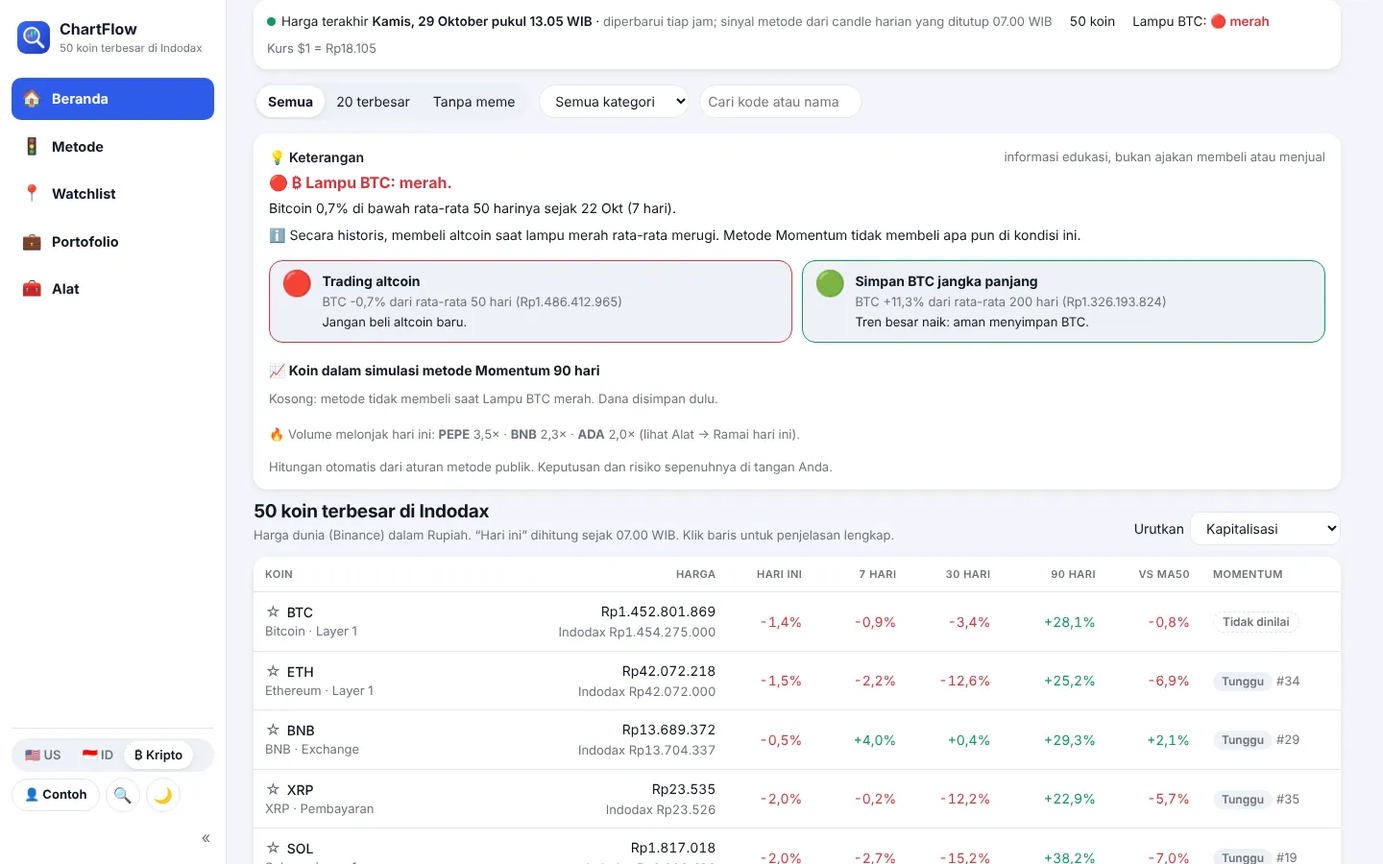
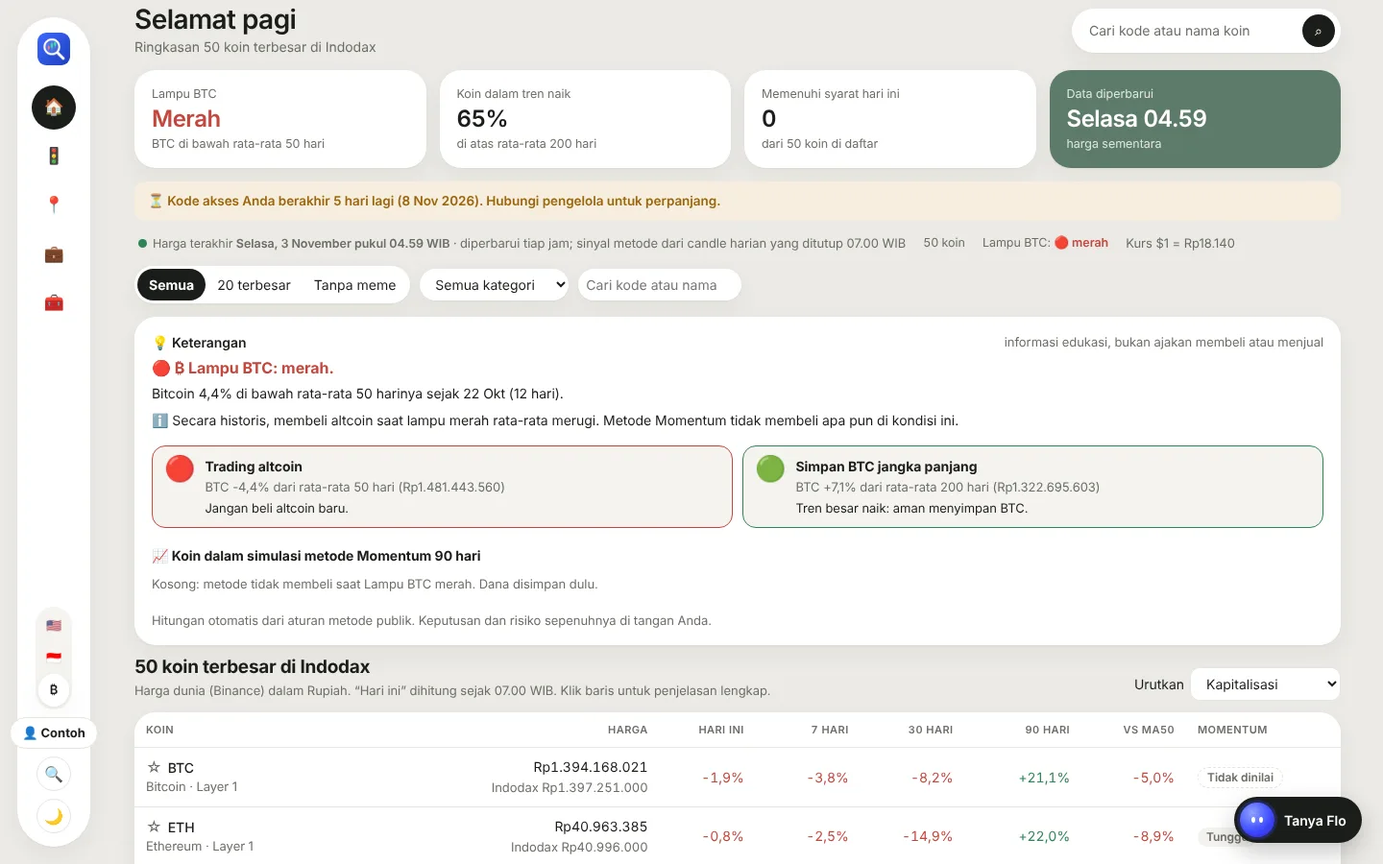
Tampilan baru: ringkasan Beranda, animasi pindah menu, dan Flo
Gaya kalem (abu-krem, kartu membulat, aksen sage), menu samping ikon saja,
empat kartu angka di Beranda, animasi masuk/pindah menu, dan Flo, asisten
yang menjawab dari aturan dan data ChartFlow (tanpa AI berbayar).

Claude-Session: https://claude.ai/code/session_012CAGJkYUHsEMWwfJLfAKuZ

diff --git a/index.html b/index.html
@@ -16,7 +16,7 @@
 <script>try{const q=new URLSearchParams(location.search);if(q.has("app")&&localStorage.getItem("lastMarket")==="id"&&!/indonesia/.test(location.pathname)){location.replace("/screener-saham-indonesia/"+location.hash);}localStorage.setItem("lastMarket","id");}catch(e){}</script>
 <link rel="preconnect" href="https://fonts.googleapis.com">
 <link rel="preconnect" href="https://fonts.gstatic.com" crossorigin>
-<link rel="stylesheet" href="https://fonts.googleapis.com/css2?family=Plus+Jakarta+Sans:wght@400;500;600;700;800&display=swap">
+<link rel="stylesheet" href="https://fonts.googleapis.com/css2?family=Instrument+Sans:wght@400;500;600;700&display=swap">
 <script>try{const t=localStorage.getItem("theme");if(t)document.documentElement.dataset.theme=t;}catch(e){}</script>
 <style>
 /* Layout: trading-desk worksheet. Status bar, tab strip with live pass counts, criteria rail + results table. */
@@ -351,6 +351,134 @@ footer{color:var(--muted);font-size:12.5px}
 
 @media (max-width:600px){.topbar{flex-wrap:wrap;row-gap:8px}.topbar .brand{margin-right:auto}.topbar .tb-r{display:contents}.topbar .mkt{order:9;width:100%;display:flex}.topbar .mkt a{flex:1;text-align:center;padding:6px 8px;font-size:13px}}
 .il-box.tl{border-color:#7c3aed}
+
+/* ---------- v3: tampilan kalem + animasi + Flo ---------- */
+:root{--bg:#ebeae5;--surface:#ffffff;--sunk:#f4f3ef;--line:#e6e5df;--fg:#1b1d1a;--muted:#6b6e66;
+  --accent:#4f6f5c;--accent-ink:#ffffff;--accent-soft:#e6eee8;--ink:#1b1d1a;--ink-fg:#ffffff;--sage:#5d7b69;
+  --good:#2f8455;--good-soft:#e3f1e8;--warn:#9a6510;--warn-soft:#f6eedd;--bad:#c4473f;--bad-soft:#f8e6e3;
+  --f-display:"Instrument Sans","Segoe UI",system-ui,sans-serif;--f-body:"Instrument Sans","Segoe UI",system-ui,sans-serif;--f-mono:"Instrument Sans","Segoe UI",system-ui,sans-serif;
+  --r:22px;--shadow:0 1px 2px rgba(30,30,20,.04),0 8px 24px rgba(30,30,20,.05);--lift:0 2px 4px rgba(30,30,20,.05),0 18px 36px rgba(30,30,20,.09)}
+@media (prefers-color-scheme: dark){:root:not([data-theme=light]){--bg:#141513;--surface:#1d1f1c;--sunk:#252723;--line:#2c2e2a;--fg:#ecede8;--muted:#9a9d95;
+  --accent:#8fb39d;--accent-ink:#141513;--accent-soft:#25302a;--ink:#ecede8;--ink-fg:#141513;--sage:#5a7a66;
+  --good:#7cc79a;--good-soft:#1d2e24;--warn:#e3b45c;--warn-soft:#33291a;--bad:#f08a80;--bad-soft:#3a201d;
+  --shadow:0 1px 2px rgba(0,0,0,.35),0 8px 24px rgba(0,0,0,.25);--lift:0 2px 4px rgba(0,0,0,.4),0 18px 36px rgba(0,0,0,.4)}}
+:root[data-theme=dark]{--bg:#141513;--surface:#1d1f1c;--sunk:#252723;--line:#2c2e2a;--fg:#ecede8;--muted:#9a9d95;
+  --accent:#8fb39d;--accent-ink:#141513;--accent-soft:#25302a;--ink:#ecede8;--ink-fg:#141513;--sage:#5a7a66;
+  --good:#7cc79a;--good-soft:#1d2e24;--warn:#e3b45c;--warn-soft:#33291a;--bad:#f08a80;--bad-soft:#3a201d;
+  --shadow:0 1px 2px rgba(0,0,0,.35),0 8px 24px rgba(0,0,0,.25);--lift:0 2px 4px rgba(0,0,0,.4),0 18px 36px rgba(0,0,0,.4)}
+body{letter-spacing:-.003em}
+.topbar{border-bottom:none;background:color-mix(in srgb,var(--bg) 90%,transparent)}
+.rail,.mcard,.tablebox,.etf,.calcwrap>.mcard{border-radius:var(--r)!important}
+.mcard{padding:16px 18px}
+.status{background:transparent!important;box-shadow:none!important;padding:0 4px!important;font-size:12.5px;color:var(--muted)}
+.tab{border:none!important;box-shadow:var(--shadow)}
+.tab[aria-selected=true]{background:var(--ink)!important;color:var(--ink-fg)!important}
+.tab[aria-selected=true] .c,.tab[aria-selected=true] .c b{color:var(--ink-fg)!important}
+.seg{background:var(--surface);box-shadow:var(--shadow)}
+.seg button[aria-pressed=true]{background:var(--ink)!important;color:var(--ink-fg)!important;box-shadow:none}
+.filters select,.filters input[type=search],#syr{border:none;background:var(--surface);box-shadow:var(--shadow)}
+#install{background:var(--ink);border-color:var(--ink);color:var(--ink-fg)}
+.mainnav button[aria-current=true]{background:var(--ink);color:var(--ink-fg)}
+.drawer{background:var(--bg)}
+@media (max-width:760px){
+  body{padding-bottom:calc(96px + env(safe-area-inset-bottom,0px))}
+  .mainnav{left:10px;right:10px;bottom:calc(10px + env(safe-area-inset-bottom,0px));border-radius:26px;padding:6px 4px;box-shadow:0 10px 30px rgba(30,30,20,.16)}
+  .mainnav button[aria-current=true]{background:var(--ink);color:var(--ink-fg)}
+}
+/* sapaan + kartu angka */
+.hero{display:flex;flex-direction:column;gap:14px}
+.hero:empty{display:none}
+.hello{display:flex;align-items:center;justify-content:space-between;gap:16px;flex-wrap:wrap;margin-top:4px}
+.hello h1{margin:0;font-size:28px;font-weight:600;letter-spacing:-.02em;line-height:1.15}
+.hello p{margin:2px 0 0;color:var(--muted);font-size:14px}
+.hello .srch{display:flex;align-items:center;gap:8px;background:var(--surface);box-shadow:var(--shadow);border:none;border-radius:999px;padding:6px 6px 6px 18px;min-width:280px;color:var(--muted);font:inherit;font-size:14px;cursor:pointer;text-align:left}
+.hello .srch span{flex:1}.hello .srch i{font-style:normal;width:34px;height:34px;border-radius:50%;background:var(--ink);color:var(--ink-fg);display:grid;place-items:center;font-size:14px}
+.kpi{display:grid;grid-template-columns:repeat(4,minmax(0,1fr));gap:14px}
+.kpi>div{background:var(--surface);border-radius:var(--r);box-shadow:var(--shadow);padding:16px 18px;min-width:0;display:flex;flex-direction:column;gap:2px}
+.kpi small{color:var(--muted);font-size:12.5px}
+.kpi b{font-size:24px;font-weight:600;letter-spacing:-.02em;line-height:1.2;font-variant-numeric:tabular-nums}
+.kpi .ok{color:var(--good)}.kpi .no{color:var(--bad)}
+.kpi .sg{background:var(--sage);color:#fff}.kpi .sg small{color:rgba(255,255,255,.8)}
+.kpi.wait>div{min-height:84px;background:linear-gradient(100deg,var(--surface) 30%,var(--sunk) 50%,var(--surface) 70%);background-size:300% 100%;animation:shim 1.4s linear infinite}
+@keyframes shim{from{background-position:100% 0}to{background-position:-50% 0}}
+@media (max-width:1099px){.hello .srch{display:none}}
+@media (max-width:760px){.kpi{grid-template-columns:1fr 1fr;gap:10px}.kpi>div{padding:13px 14px}.kpi b{font-size:20px}.hello h1{font-size:23px}.hero.sub{display:none}}
+/* kartu terangkat saat disorot */
+@media (hover:hover){.kpi>div,.mcard{transition:transform .28s cubic-bezier(.2,.8,.2,1),box-shadow .28s}
+  .kpi>div:hover,.results>.mcard:hover{transform:translateY(-3px);box-shadow:var(--lift)!important}}
+/* menu samping: ikon saja, melayang */
+@media (min-width:1100px){
+  body,body.sncol{padding-left:112px}
+  .sidenav,body.sncol .sidenav{width:76px;top:18px;bottom:18px;left:18px;border:none;border-radius:38px;box-shadow:var(--shadow);padding:16px 0 14px;align-items:center;overflow:visible;background:var(--surface)}
+  .sidenav #snDyn{align-items:center}
+  .sidenav .sn-top{justify-content:center;padding:0 0 8px}
+  .sidenav .sn-top>div,.sidenav .tx,.sidenav .sn-s,.sidenav .sn-col{display:none!important}
+  .sidenav .sn-nav{align-items:center;position:relative}
+  .sidenav .sn-g{width:46px;height:46px;justify-content:center;padding:0;border-radius:50%;margin:3px 0 0;background:transparent!important;position:relative;z-index:1;transition:color .3s}
+  .sidenav .sn-g:hover{background:var(--sunk)!important}
+  .sidenav .sn-g.ind-on[aria-current=true]:hover{background:transparent!important}
+  .sidenav .sn-g[aria-current=true]{color:var(--ink-fg)}
+  .sidenav .sn-g[aria-current=true]:not(.ind-on){background:var(--ink)!important}
+  .sidenav .sn-g .bd{position:absolute;top:0;right:0;margin:0}
+  .sidenav .sn-foot{border:none;padding:0}
+  .sidenav .sn-foot .tb-r{flex-direction:column;flex-wrap:nowrap;gap:8px}
+  .sidenav .sn-foot .mkt{flex-direction:column;width:auto;border-radius:24px}
+  .sidenav .mkt a{padding:7px 8px;text-align:center}.sidenav .mkt .mt{display:none}
+  .sidenav #install{width:46px;height:46px;padding:0;font-size:0;border-radius:50%}.sidenav #install::before{content:"📲";font-size:18px}
+  body .tabs#tabs:not(:empty){display:flex!important}
+  .sn-ind{position:absolute;left:50%;top:0;width:46px;height:46px;margin-left:-23px;border-radius:50%;background:var(--ink);z-index:0;pointer-events:none;transition:transform .5s cubic-bezier(.3,1.25,.5,1)}
+  .sn-tip{position:fixed;padding:5px 11px;border-radius:9px;background:var(--ink);color:var(--ink-fg);font-size:12.5px;font-weight:600;white-space:nowrap;pointer-events:none;opacity:0;transition:opacity .25s,top .4s cubic-bezier(.3,1.25,.5,1);z-index:60}
+}
+/* Flo: asisten */
+.flo{position:fixed;z-index:38;left:0;top:0;display:flex;align-items:center;gap:10px;height:48px;padding:0 16px 0 6px;border:none;border-radius:999px;background:var(--ink);color:var(--ink-fg);font:inherit;font-weight:600;font-size:14px;cursor:pointer;box-shadow:0 10px 26px rgba(0,0,0,.22);
+  transition:transform .7s cubic-bezier(.2,.8,.2,1),opacity .3s,padding .4s,background .4s,box-shadow .4s;opacity:0;pointer-events:none}
+.flo.dock{opacity:1;pointer-events:auto}
+.flo .orb{flex:none;width:36px;height:36px;border-radius:50%;display:grid;place-items:center;background:radial-gradient(circle at 35% 30%,#8fa2ff,#3f4dff 55%,#2a1fd0);box-shadow:0 0 0 3px rgba(63,77,255,.25);transition:width .45s,height .45s,box-shadow .4s}
+.flo .eyes{display:flex;gap:22%;width:46%;justify-content:center}
+.flo .eyes i,.fp-big .eyes i{display:block;width:20%;aspect-ratio:2/3;min-width:4px;background:#fff;border-radius:50%;animation:blink 3.4s infinite}
+.flo .lbl{white-space:nowrap;transition:opacity .25s}
+.flo .say{position:absolute;bottom:calc(100% + 12px);left:50%;transform:translate(-50%,6px);background:var(--surface);color:var(--fg);box-shadow:var(--shadow);padding:7px 13px;border-radius:14px;font-size:13px;white-space:nowrap;opacity:0;transition:opacity .3s,transform .3s;pointer-events:none}
+.flo.center{opacity:1;padding:0;background:transparent;box-shadow:none;pointer-events:none}
+.flo.center .orb{width:72px;height:72px;box-shadow:0 12px 34px rgba(63,77,255,.5),0 0 0 7px rgba(63,77,255,.12);animation:bob 2.4s ease-in-out infinite}
+.flo.center .lbl{opacity:0;width:0;overflow:hidden}
+.flo.center .say{opacity:1;transform:translate(-50%,0)}
+.flo:focus-visible{outline:2px solid var(--accent);outline-offset:3px}
+body:has(.drawer) .flo,body.fpo .flo{opacity:0!important;pointer-events:none!important}
+@media (max-width:760px){.flo.dock{padding:0 6px;width:auto}.flo.dock .lbl{display:none}}
+@keyframes bob{50%{transform:translateY(-8px)}}
+@keyframes blink{0%,93%,100%{transform:scaleY(1)}96%{transform:scaleY(.1)}}
+.flopanel{position:fixed;z-index:42;top:18px;right:18px;bottom:18px;width:380px;border-radius:28px;background:var(--surface);box-shadow:0 20px 60px rgba(20,20,10,.2);display:flex;flex-direction:column;
+  transform:translateX(calc(100% + 30px));visibility:hidden;transition:transform .55s cubic-bezier(.2,.8,.2,1),visibility 0s .55s}
+body.fpo .flopanel{transform:none;visibility:visible;transition:transform .55s cubic-bezier(.2,.8,.2,1)}
+body{transition:padding-right .55s cubic-bezier(.2,.8,.2,1)}
+@media (min-width:1300px){body.fpo{padding-right:400px}}
+.fp-hd{display:flex;align-items:center;gap:10px;padding:18px 18px 10px;font-weight:600}
+.fp-hd small{display:block;color:var(--muted);font-weight:400;font-size:12px}
+.fp-hd .mini{width:32px;height:32px;border-radius:50%;background:radial-gradient(circle at 35% 30%,#8fa2ff,#3f4dff 55%,#2a1fd0);flex:none}
+.fp-x{margin-left:auto;border:none;background:var(--sunk);width:34px;height:34px;border-radius:50%;cursor:pointer;color:var(--fg);font-size:14px}
+.fp-body{flex:1;overflow:auto;padding:6px 18px 10px;display:flex;flex-direction:column;gap:10px}
+.fp-hi{margin:auto 0;text-align:center;padding:10px 0}
+.fp-big{width:76px;height:76px;margin:0 auto 14px;border-radius:50%;display:grid;place-items:center;background:radial-gradient(circle at 35% 30%,#8fa2ff,#3f4dff 55%,#2a1fd0);box-shadow:0 12px 30px rgba(63,77,255,.45);animation:bob 2.4s ease-in-out infinite}
+.fp-big .eyes{display:flex;gap:10px;width:auto}.fp-big .eyes i{width:9px;min-width:0}
+.fp-hi h3{margin:0;font-size:22px;letter-spacing:-.02em;text-transform:none;color:var(--fg)}
+.fp-hi p{color:var(--muted);font-size:13.5px;margin:6px auto 0;max-width:30ch}
+.fp-m{max-width:92%;padding:10px 13px;border-radius:18px;font-size:13.5px;line-height:1.5;animation:pop .35s cubic-bezier(.2,.8,.2,1)}
+.fp-m.me{align-self:flex-end;background:var(--ink);color:var(--ink-fg);border-bottom-right-radius:6px}
+.fp-m.bot{align-self:flex-start;background:var(--sunk);border-bottom-left-radius:6px}
+.fp-m.bot ul{margin:6px 0 0;padding-left:18px}.fp-m.bot li{margin:2px 0}
+.fp-m.bot .tk{border:none;background:none;padding:0;font:inherit;font-weight:700;color:var(--accent);cursor:pointer;text-decoration:underline;text-underline-offset:3px}
+.fp-m.bot .go{margin-top:8px;border:none;border-radius:999px;background:var(--ink);color:var(--ink-fg);padding:6px 12px;font:inherit;font-size:12.5px;font-weight:600;cursor:pointer}
+@keyframes pop{from{opacity:0;transform:translateY(8px) scale(.98)}}
+.fp-chips{display:flex;gap:8px;overflow-x:auto;padding:4px 18px 8px;scrollbar-width:none}
+.fp-chips::-webkit-scrollbar{display:none}
+.fp-chips button{flex:none;border:none;background:var(--sunk);border-radius:999px;padding:8px 13px;font:inherit;font-size:13px;color:var(--fg);cursor:pointer}
+.fp-chips button:hover{background:var(--accent-soft)}
+.fp-in{display:flex;align-items:center;gap:8px;margin:4px 14px 8px;background:var(--sunk);border-radius:999px;padding:5px 5px 5px 16px}
+.fp-in input{flex:1;min-width:0;border:none;background:none;font:inherit;font-size:14px;color:var(--fg);padding:6px 0;outline:none}
+.fp-in button{width:36px;height:36px;border:none;border-radius:50%;background:var(--ink);color:var(--ink-fg);cursor:pointer;font-size:15px;flex:none}
+.fp-note{margin:0 18px 14px;font-size:11.5px;color:var(--muted);text-align:center}
+@media (max-width:760px){.flopanel{left:8px;right:8px;top:auto;bottom:8px;width:auto;height:min(78vh,640px);transform:translateY(calc(100% + 20px))}}
+@media (prefers-reduced-motion:reduce){.flo,.flopanel,.sn-ind,.sn-tip,.kpi>div,.mcard,body{transition:none!important}.flo .orb,.fp-big,.flo .eyes i,.fp-big .eyes i,.kpi.wait>div,.fp-m{animation:none!important}}
 </style>
 </head>
 <body>
@@ -2377,6 +2505,158 @@ function autoCheck(force){
 setInterval(()=>autoCheck(false),30000);
 document.addEventListener("visibilitychange",()=>{ if(document.visibilityState==="visible") autoCheck(Date.now()-AUTO.last>60000); });
 window.addEventListener("online",()=>autoCheck(true));
+// ---------- Tampilan v3: sapaan, kartu angka, animasi, Flo ----------
+(function(){
+  const RM=matchMedia("(prefers-reduced-motion:reduce)").matches, DESK=()=>matchMedia("(min-width:1100px)").matches, PHONE=()=>matchMedia("(max-width:760px)").matches;
+  const EASE="cubic-bezier(.2,.8,.2,1)";
+  const CR=typeof IS_CR!=="undefined"&&IS_CR, MK=CR?"kripto":IS_ID?"id":"us";
+  const UNIT=CR?"koin":"saham", IDX=CR?"BTC":IS_ID?"IHSG":"S&P 500", EX=CR?"BTC":IS_ID?"BBCA":"AAPL";
+  const BUY=()=>(typeof ST!=="undefined"&&ST.buy)||"Layak beli";
+  const SAFEm=typeof SAFE!=="undefined"&&SAFE;
+  const anim=(el,kf,o)=>{ if(!RM&&el&&el.animate) return el.animate(kf,Object.assign({easing:EASE,fill:"backwards"},o)); };
+  const fadeIn=(el,delay)=>anim(el,[{opacity:0,filter:"blur(10px)",transform:"translateY(14px)"},{opacity:1,filter:"blur(0)",transform:"none"}],{duration:650,delay});
+  const fill=(card,delay)=>{ anim(card,[{opacity:0,transform:"translateY(10px) scale(.985)"},{opacity:1,transform:"none"}],{duration:600,delay});
+    [...card.children].slice(0,12).forEach((c,i)=>anim(c,[{opacity:0,filter:"blur(6px)"},{opacity:1,filter:"blur(0)"}],{duration:550,delay:delay+320+i*45})); };
+  const visCards=()=>[...document.querySelectorAll("#results>*,#rail")].filter(e=>e.offsetParent&&e.getBoundingClientRect().top<innerHeight+40).slice(0,8);
+  const countUp=(el,delay)=>{ if(RM||!el) return; const n=el.firstChild; if(!n||n.nodeType!==3) return; const m=/^(\d+)(.*)$/.exec(n.textContent); if(!m) return;
+    const to=+m[1], rest=m[2], t0=performance.now()+delay; n.textContent="0"+rest;
+    const step=t=>{ const k=Math.min(1,Math.max(0,(t-t0)/1000)), e=1-Math.pow(1-k,3); n.textContent=Math.round(to*e)+rest; if(k<1) requestAnimationFrame(step); }; requestAnimationFrame(step); };
+
+  // ---- sapaan + kartu angka
+  const hero=document.createElement("section"); hero.className="hero"; hero.id="hero";
+  const top=document.querySelector(".wrap>.topbar"); if(top) top.after(hero);
+  const SUBS={home:{id:"Ringkasan Bursa Efek Indonesia hari ini",us:"Ringkasan S&P 500 dan Nasdaq-100 hari ini",kripto:"Ringkasan 50 koin terbesar di Indodax"},
+    saham:"Sinyal tiap metode, lengkap dengan aturannya",watch:`${CR?"Koin":"Saham"} yang ditandai dan area belinya`,porto:"Catat pembelian, pantau stop dan target",alat:"Kalkulator, siklus, volume, dan hasil uji"};
+  const salam=()=>{ const h=+new Date().toLocaleString("en-US",{timeZone:"Asia/Jakarta",hour:"numeric",hour12:false})%24; return h<11?"Selamat pagi":h<15?"Selamat siang":h<18?"Selamat sore":"Selamat malam"; };
+  const breadth=()=>{ try{ if(typeof breadthNow==="function"){ const b=breadthNow(); if(b!=null) return b; } }catch(e){}
+    const p=rows.filter(o=>typeof o.sma200==="number"); return p.length?p.filter(o=>o.sma200>0).length/p.length*100:null; };
+  function kpiHTML(){
+    if(!DATA) return `<div class="kpi wait"><div></div><div></div><div></div><div></div></div>`;
+    let k1;
+    if(CR){ const L=typeof lamp==="function"?lamp():{}; k1=`<div><small>Lampu BTC</small><b class="${L.g50?"ok":"no"}">${L.g50?"Hijau":"Merah"}</b><small>${L.g50?"BTC di atas rata-rata 50 hari":"BTC di bawah rata-rata 50 hari"}</small></div>`; }
+    else { const r=regime(); k1=`<div><small>Kondisi ${IDX}</small><b class="${r.k==="naik"?"ok":r.k==="tertekan"?"no":""}">${r.k==="naik"?"Naik":r.k==="tertekan"?"Tertekan":"Campuran"}</b><small>${r.ok?`${IDX} dalam tren naik`:r.ok===false?`${IDX} di bawah rata-ratanya`:"Belum jelas"}</small></div>`; }
+    const b=breadth(), list=typeof filtered==="function"?filtered():rows;
+    const nb=list.filter(o=>{ try{ return summaryOf(o).by.buy.length>0; }catch(e){ return false; } }).length;
+    const d=new Date(DATA.updatedAt), it=DATA.intraday;
+    const when=d.toLocaleString("id-ID",{timeZone:"Asia/Jakarta",weekday:"long",hour:"2-digit",minute:"2-digit"}).replace(/\./g,".");
+    return `<div class="kpi">${k1}
+      <div><small>${CR?"Koin":"Saham"} dalam tren naik</small><b>${b==null?"–":Math.round(b)+"%"}</b><small>di atas rata-rata 200 hari</small></div>
+      <div><small>${esc(BUY())} hari ini</small><b>${nb}</b><small>dari ${list.length} ${UNIT} di daftar</small></div>
+      <div class="sg"><small>Data diperbarui</small><b>${esc(when.replace(/^(\w+),?\s*/,(m,w)=>w+" "))}</b><small>${it?"harga sementara":CR?"diperbarui tiap jam":"harga penutupan "+tgl(DATA.priceDate,1)}</small></div></div>`; }
+  let lastKey="", entered=false;
+  function renderHero(){
+    const g=typeof groupOf==="function"&&typeof tab!=="undefined"?groupOf(tab):{id:"home",name:"Beranda"}, home=g.id==="home"||g.id==="summary";
+    const key=g.id+"|"+(DATA?DATA.updatedAt:"")+"|"+(typeof filtered==="function"?filtered().length:0);
+    if(key===lastKey) return; lastKey=key;
+    hero.classList.toggle("sub",!home);
+    const sub=home?(SUBS.home[MK]):(SUBS[g.id]||"");
+    hero.innerHTML=`<div class="hello"><div><h1>${home?salam():esc(g.name)}</h1>${sub?`<p>${esc(sub)}</p>`:""}</div><button type="button" class="srch" aria-label="Cari ${UNIT}"><span>Cari kode atau nama ${UNIT}</span><i aria-hidden="true">⌕</i></button></div>${home?kpiHTML():""}`;
+    if(DATA&&!entered){ entered=true; enter(); }
+  }
+  hero.addEventListener("click",ev=>{ if(ev.target.closest(".srch")){ const q=document.getElementById("qsBtn"); if(q) q.click(); } });
+
+  // ---- penanda menu meluncur + label
+  const sn=document.getElementById("sidenav"); let ind=null, tipEl=null, tipT=null;
+  function showTip(a,ms){ if(!tipEl||!a||!a.title) return; const r=a.getBoundingClientRect(); tipEl.textContent=a.title; tipEl.style.left=(r.right+14)+"px"; tipEl.style.top=(r.top+r.height/2-14)+"px"; tipEl.style.opacity=1;
+    clearTimeout(tipT); if(ms) tipT=setTimeout(()=>tipEl.style.opacity=0,ms); }
+  function moveInd(){ if(!sn||!DESK()) return; const nav=sn.querySelector(".sn-nav"), a=sn.querySelector(".sn-g[aria-current=true]"); if(!nav||!a) return;
+    if(!ind||!nav.contains(ind)){ const prev=ind&&ind.style.transform; ind=document.createElement("span"); ind.className="sn-ind"; nav.prepend(ind); if(prev){ ind.style.transition="none"; ind.style.transform=prev; ind.offsetWidth; ind.style.transition=""; } }
+    if(!tipEl){ tipEl=document.createElement("span"); tipEl.className="sn-tip"; tipEl.setAttribute("aria-hidden","true"); document.body.append(tipEl); }
+    sn.querySelectorAll(".sn-g").forEach(x=>x.classList.add("ind-on"));
+    const nr=nav.getBoundingClientRect(), r=a.getBoundingClientRect(); ind.style.transform=`translateY(${r.top-nr.top}px)`; }
+  if(sn){ new MutationObserver(ms=>{ if(ms.some(m=>m.target!==ind&&!(ind&&m.target===ind.parentNode&&[...m.addedNodes,...m.removedNodes].every(n=>n===ind)))) moveInd(); }).observe(sn,{childList:true,subtree:true});
+    sn.addEventListener("mouseover",ev=>{ const a=ev.target.closest(".sn-g"); if(a) showTip(a,0); });
+    sn.addEventListener("mouseleave",()=>{ if(tipEl) tipEl.style.opacity=0; }); }
+
+  // ---- Flo
+  const flo=document.createElement("button"); flo.type="button"; flo.className="flo"; flo.setAttribute("aria-label","Tanya Flo, asisten ChartFlow");
+  flo.innerHTML=`<span class="say" aria-hidden="true"></span><span class="orb"><span class="eyes"><i></i><i></i></span></span><span class="lbl">Tanya Flo</span>`;
+  const panel=document.createElement("aside"); panel.className="flopanel"; panel.setAttribute("aria-label","Flo, asisten ChartFlow");
+  const CHIPS=[["pasar","Kondisi pasar hari ini"],["top",`${CR?"Koin":"Saham"} yang lolos paling banyak`],["uji","Metode mana yang terbukti?"],["arti","Arti label status"]];
+  panel.innerHTML=`<div class="fp-hd"><span class="mini"></span><span>Flo<small>Asisten ChartFlow</small></span><button type="button" class="fp-x" aria-label="Tutup">✕</button></div>
+    <div class="fp-body" aria-live="polite"><div class="fp-hi"><div class="fp-big"><span class="eyes"><i></i><i></i></span></div><h3>Hai, saya Flo</h3><p>Saya membaca data ChartFlow hari ini dan menjelaskan aturan tiap metode. Ketik kode ${UNIT} (misalnya ${EX}) atau pilih pertanyaan.</p></div></div>
+    <div class="fp-chips">${CHIPS.map(([k,t])=>`<button type="button" data-q="${k}">${esc(t)}</button>`).join("")}</div>
+    <form class="fp-in"><input type="text" placeholder="Ketik kode ${UNIT}, misalnya ${EX}" aria-label="Kode ${UNIT}" autocomplete="off" autocapitalize="characters"><button type="submit" aria-label="Kirim">↑</button></form>
+    <p class="fp-note">Jawaban dihitung dari aturan metode, bukan saran investasi.${CR?" Kripto berisiko sangat tinggi.":""}</p>`;
+  document.body.append(flo,panel);
+  const body=panel.querySelector(".fp-body");
+  const pos=(x,y)=>{ flo.style.transform=`translate(${Math.round(x)}px,${Math.round(y)}px)`; };
+  function dock(){ flo.classList.remove("center"); flo.classList.add("dock"); const w=flo.offsetWidth||150;
+    pos(innerWidth-w-(PHONE()?14:22), innerHeight-48-(PHONE()?(document.querySelector(".mainnav")?.offsetHeight||70)+24:22)); }
+  function center(txt){ const w=document.querySelector(".wrap").getBoundingClientRect(); flo.querySelector(".say").textContent=txt; flo.classList.remove("dock"); flo.classList.add("center"); pos(w.left+w.width/2-36, innerHeight*.4); }
+  addEventListener("resize",()=>{ if(flo.classList.contains("dock")) dock(); moveInd(); });
+  const openP=()=>{ document.body.classList.add("fpo"); setTimeout(()=>panel.querySelector("input").focus({preventScroll:true}),PHONE()?400:0); };
+  const closeP=()=>{ document.body.classList.remove("fpo"); flo.focus({preventScroll:true}); };
+  flo.addEventListener("click",openP); panel.querySelector(".fp-x").addEventListener("click",closeP);
+  document.addEventListener("keydown",ev=>{ if(ev.key==="Escape"&&document.body.classList.contains("fpo")&&!document.querySelector(".drawer")) closeP(); });
+  const say=(html,me)=>{ const hi=body.querySelector(".fp-hi"); if(hi) hi.remove(); const m=document.createElement("div"); m.className="fp-m "+(me?"me":"bot"); m.innerHTML=html; body.append(m); body.scrollTop=body.scrollHeight; };
+  const tkBtn=t=>`<button type="button" class="tk" data-t="${esc(t)}">${esc(t)}</button>`;
+  function answer(k){
+    if(!DATA) return "Data belum termuat. Coba lagi sebentar.";
+    if(k==="pasar"){
+      if(CR){ const L=typeof lamp==="function"?lamp():{}; return `Lampu BTC sedang <b>${L.g50?"hijau":"merah"}</b>${typeof lampSince==="function"&&lampSince(L)?" "+esc(lampSince(L)):""}: harga BTC ${L.g50?"di atas":"di bawah"} rata-rata 50 harinya.<br>${L.g50?"Aturan metode di sini hanya menilai sinyal beli saat lampu hijau.":"Saat lampu merah, aturan metode di sini menahan sinyal beli baru."}<br><span class="note">Kripto berisiko sangat tinggi; harga bisa turun puluhan persen dalam beberapa hari.</span>`; }
+      const r=regime(), b=breadth(), mk=DATA.market||{};
+      let s=`${IDX} sedang <b>${r.k}</b>.${b!=null?` Sekitar <b>${Math.round(b)}%</b> ${UNIT} ada di atas rata-rata 200 harinya.`:""}`;
+      if(mk.text) s+=`<br><span class="note">${esc(mk.text)}</span>`;
+      if(r.k==="tertekan") s+=`<br>Aturan ChartFlow: saat pasar tertekan, metode trader cepat (CAN SLIM, Momentum, Swing) tidak dipakai di ${T("Saran","Keterangan")} dan Area beli. Kondisi dianggap membaik bila separuh ${UNIT} kembali di atas rata-rata 200 hari.`;
+      else if(r.k==="naik") s+=`<br>Aturan ChartFlow: semua metode yang lolos uji dipakai seperti biasa.`;
+      return s; }
+    if(k==="top"){
+      const list=(typeof filtered==="function"?filtered():rows).map(o=>{ let s={by:{buy:[]},pass:0}; try{ s=summaryOf(o); }catch(e){} return {o,s}; })
+        .filter(x=>x.s.by.buy.length).sort((a,b)=>b.s.by.buy.length-a.s.by.buy.length||b.s.pass-a.s.pass).slice(0,6);
+      if(!list.length) return `Hari ini belum ada ${UNIT} berstatus <b>${esc(BUY())}</b> di daftar yang sedang dipilih.`;
+      return `${CR?"Koin":"Saham"} dengan status <b>${esc(BUY())}</b> di metode terbanyak:<ul>${list.map(x=>`<li>${tkBtn(x.o.ticker)} · ${x.s.by.buy.length} metode <span class="note">(${esc(x.s.by.buy.join(", "))})</span></li>`).join("")}</ul><span class="note">Ketuk kodenya untuk melihat alasan dan harga patokannya.</span>`; }
+    if(k==="uji"){
+      const R=typeof LT!=="undefined"&&LT&&LT.mom;
+      if(CR&&R) return `Uji mundur Momentum 90 hari ${esc(R.from.slice(0,4))}–${esc(R.to.slice(0,4))}: rata-rata <b class="ok">${pct(R.cagr,0)}</b> per tahun, dibanding simpan BTC ${pct(R.btc_cagr,0)}. Tapi turun terdalamnya <b class="no">${nf(R.dd,0)}%</b> (BTC ${nf(R.btc_dd,0)}%)${R.bad?`, dan tahun terburuknya ${Object.entries(R.bad).map(([y,v])=>`${y}: ${pct(v,0)}`).join(", ")}`:""}.<br><span class="note">Kripto berisiko sangat tinggi. Hasil masa lalu tidak menjamin hasil berikutnya.</span>`;
+      const L=typeof LT!=="undefined"&&LT&&LT.methods; if(!L) return `Hasil uji jangka panjang belum termuat. Coba lagi sebentar.`;
+      const ls=Object.entries(L).filter(([m])=>typeof MID==="undefined"||MID[m]).sort((a,b)=>b[1].avg-a[1].avg);
+      return `Uji mundur ${esc(typeof ltYrs==="function"?ltYrs():"")} (rata-rata hasil per transaksi setelah biaya):<ul>${ls.map(([m,v])=>`<li><b>${esc((typeof MID!=="undefined"&&MID[m]?MID[m].name:m))}</b>: <span class="${v.avg>=0?"ok":"no"}">${pct(v.avg,2)}</span>, untung ${v.yp} dari ${v.y} tahun${v.avg<0?" ⚠":""}</li>`).join("")}</ul><span class="note">Metode bertanda ⚠ rata-ratanya rugi, jadi tidak dipakai di ${T("Saran","Keterangan")} dan Area beli. Hasil masa lalu tidak menjamin hasil berikutnya.</span>`; }
+    if(k==="arti") return `<ul><li><b>${esc(BUY())}</b>: semua syarat metode terpenuhi hari ini (<b>baru</b> = baru lolos hari ini).</li><li><b>Tahan</b>: pernah lolos dan belum ada sinyal jual.</li><li><b>Terlambat</b>: sinyalnya sudah lewat, harga sudah bergerak jauh.</li><li><b>Hindari</b>: sinyal jual metode sedang aktif.</li><li><b>Tunggu</b>: belum memenuhi syarat.</li></ul>`;
+    return ""; }
+  function lookup(q){ q=q.trim(); if(!q) return; say(esc(q),true);
+    const Q=q.toUpperCase(), o=rows.find(x=>x.ticker===Q)||rows.find(x=>x.company&&x.company.toUpperCase().includes(Q)&&Q.length>=3);
+    if(!o){ say(`Saya belum bisa menjawab pertanyaan bebas. Ketik kode ${UNIT} yang ada di daftar (misalnya ${EX}), atau pilih salah satu pertanyaan di bawah.`); return; }
+    let s={by:{buy:[],hold:[],sell:[]},pass:0}; try{ s=summaryOf(o); }catch(e){}
+    say(`<b>${esc(o.ticker)}</b> ${o.company?`· ${esc(o.company)}`:""}<br>Harga ${usd(o.price)}${typeof o.chg1d==="number"?` <span class="${o.chg1d>=0?"ok":"no"}">(${pct(o.chg1d,1)} hari ini)</span>`:""}.<br>
+      ${s.by.buy.length?`<b>${esc(BUY())}</b> menurut: ${esc(s.by.buy.join(", "))}.`:`Belum ${esc(BUY().toLowerCase())} di metode mana pun.`}
+      ${s.by.sell.length?`<br><b class="no">Sinyal jual</b> aktif di: ${esc(s.by.sell.join(", "))}.`:""}
+      ${typeof M!=="undefined"?`<br><span class="note">Lolos ${s.pass} dari ${M.length} kriteria metode.</span>`:""}<br><button type="button" class="go" data-t="${esc(o.ticker)}">Buka detail ${esc(o.ticker)}</button>`); }
+  panel.querySelector(".fp-chips").addEventListener("click",ev=>{ const b=ev.target.closest("[data-q]"); if(!b) return; say(esc(b.textContent),true); setTimeout(()=>say(answer(b.dataset.q)),RM?0:260); });
+  panel.querySelector(".fp-in").addEventListener("submit",ev=>{ ev.preventDefault(); const i=panel.querySelector("input"); lookup(i.value); i.value=""; });
+  body.addEventListener("click",ev=>{ const b=ev.target.closest("[data-t]"); if(!b) return; if(PHONE()) closeP(); openTicker=b.dataset.t; renderResults(); });
+
+  // ---- pindah halaman: isi lama memudar, Flo lewat, isi baru muncul
+  let pass=false, animNext=false;
+  document.addEventListener("click",ev=>{
+    if(ev.target.closest("#tabs .tab")){ animNext=true; return; }
+    if(pass||RM) return; const b=ev.target.closest("#sidenav .sn-g,#mainnav [data-g]"); if(!b||b.getAttribute("aria-current")==="true") return;
+    ev.stopImmediatePropagation(); ev.preventDefault();
+    const name=(b.title||[...b.querySelectorAll("span")].filter(s=>!s.classList.contains("ic")&&!s.classList.contains("bd")).map(s=>s.textContent).join("")).trim();
+    visCards().forEach(c=>anim(c,[{opacity:1,filter:"blur(0)"},{opacity:0,filter:"blur(8px)"}],{duration:220,fill:"forwards"}));
+    if(DESK()) showTip(b,1400);
+    center(`Membuka ${name}…`);
+    setTimeout(()=>{ animNext=true; pass=true; b.click(); pass=false; setTimeout(dock,550); },380);
+  },true);
+  const res=document.getElementById("results");
+  if(res) new MutationObserver(()=>{ if(!animNext) return; animNext=false; requestAnimationFrame(()=>{ fadeIn(hero.querySelector(".hello"),0); visCards().forEach((c,i)=>{ c.getAnimations().forEach(a=>a.cancel()); fill(c,i*90); }); }); }).observe(res,{childList:true});
+
+  // ---- masuk pertama
+  function enter(){
+    moveInd();
+    if(RM){ dock(); return; }
+    if(sn&&DESK()) anim(sn,[{opacity:0,transform:"translateX(-24px)"},{opacity:1,transform:"none"}],{duration:650});
+    fadeIn(hero.querySelector(".hello"),100);
+    hero.querySelectorAll(".kpi>div").forEach((k,i)=>{ fill(k,250+i*100); countUp(k.querySelector("b"),650+i*100); });
+    fadeIn(document.getElementById("filters"),600); fadeIn(document.getElementById("tabs"),650);
+    visCards().forEach((c,i)=>fill(c,700+i*120));
+    let hi=false; try{ hi=sessionStorage.getItem("floHi")==="1"; sessionStorage.setItem("floHi","1"); }catch(e){}
+    if(hi) setTimeout(dock,600); else { center("Hai, saya Flo 👋"); setTimeout(dock,1900); }
+  }
+  const stEl=document.getElementById("status"), mn=document.getElementById("mainnav");
+  [stEl,mn,document.getElementById("tabs")].forEach(el=>el&&new MutationObserver(renderHero).observe(el,{childList:true}));
+  renderHero();
+})();
 // ---------- boot ----------
 renderAll();
 fetch("data/longtest.json",{cache:"no-cache"}).then(r=>r.ok?r.json():null).then(j=>{ if(j){ LT=j; if(DATA) renderAll(); } }).catch(()=>{});

diff --git a/chartflow/public/index.html b/chartflow/public/index.html
@@ -246,6 +246,8 @@ input.code{font-size:22px;letter-spacing:.18em;text-align:center;text-transform:
     <div class="card"><div class="e">🎛</div><h3>Filter sendiri</h3><p>Susun aturan sendiri seperti screener Stockbit: PER, ROE, yield, RSI, jarak dari MA, dan lainnya. Simpan sebagai favorit.</p></div>
     <div class="card"><div class="e">🔥</div><h3>Ramai hari ini</h3><p>Saham dengan volume melonjak, yang mendekati resistance, serta naik dan turun terbesar hari ini. Ikut diperbarui selama bursa buka.</p></div>
     <div class="card"><div class="e">🔍</div><h3>Pencarian cepat</h3><p>Ketik kode atau nama perusahaan dari halaman mana pun, rinciannya langsung terbuka.</p></div>
+    <div class="card"><div class="e">🫧</div><h3>Flo, asisten ChartFlow</h3><p>Tanyakan kondisi pasar, saham yang memenuhi syarat di metode terbanyak, hasil uji, atau ketik kode saham. Flo menjawab dari aturan dan data ChartFlow hari ini, bukan saran investasi.</p></div>
+    <div class="card"><div class="e">🗂</div><h3>Ringkasan di Beranda</h3><p>Begitu dibuka, empat kartu langsung menunjukkan kondisi indeks, berapa persen saham dalam tren naik, jumlah yang memenuhi syarat, dan waktu data diperbarui.</p></div>
   </div>
   <h3 class="grp">🎯 Menentukan harga</h3>
   <div class="grid">
@@ -339,6 +341,7 @@ input.code{font-size:22px;letter-spacing:.18em;text-align:center;text-transform:
   <details class="faq"><summary>Alarm dan peringatan dikirim lewat apa?</summary><p>Lewat Telegram pribadi Anda. Setelah masuk, buka 🔔 lalu tekan "Hubungkan Telegram". Harga dicek setiap kali data diperbarui (BEI tiap 30 menit saat bursa buka, AS tiap jam), jadi bukan real-time. Alarm untuk kripto belum tersedia.</p></details>
   <details class="faq"><summary>Apakah ada kripto?</summary><p>Ada: 50 koin terbesar yang bisa dibeli di Indodax, dengan Lampu BTC, metode Momentum 90 hari, area support, dan portofolio. Kripto jauh lebih berisiko daripada saham; harga bisa turun puluhan persen dalam beberapa hari. Yang ditampilkan hanya transaksi spot, dan status syariah aset kripto masih dibahas OJK bersama DSN-MUI.</p></details>
   <details class="faq"><summary>Seberapa akurat sinyalnya?</summary><p>Tidak ada sinyal yang selalu benar. Setiap metode diuji mundur 9–10 tahun dan hasilnya ditampilkan apa adanya, termasuk metode yang tidak lolos (diberi tanda ⚠). Garis tren, Jalur, pola candle, dan waktu Fibonacci juga diuji, dan hasilnya dibandingkan dengan rata-rata pasar di hari yang sama. Hasil Area beli dicatat terbuka di bagian <a href="#jejak">Rekam jejak</a>, termasuk yang menyentuh batas rugi.</p></details>
+  <details class="faq"><summary>Siapa Flo?</summary><p>Flo adalah asisten di dalam ChartFlow. Flo tidak memakai AI yang mengarang jawaban: semua jawabannya dihitung dari aturan metode dan data hari itu, seperti kondisi pasar, status tiap metode, dan hasil uji. Untuk kripto, Flo selalu menyebut risikonya.</p></details>
   <details class="faq"><summary>Ada aplikasinya?</summary><p>Ada aplikasi Android (APK) yang bisa diunduh dari halaman ini. Di iPhone, buka lewat Safari lalu pilih "Tambahkan ke Layar Utama". Tampilannya menyesuaikan HP.</p></details>
 </div></section>
 
